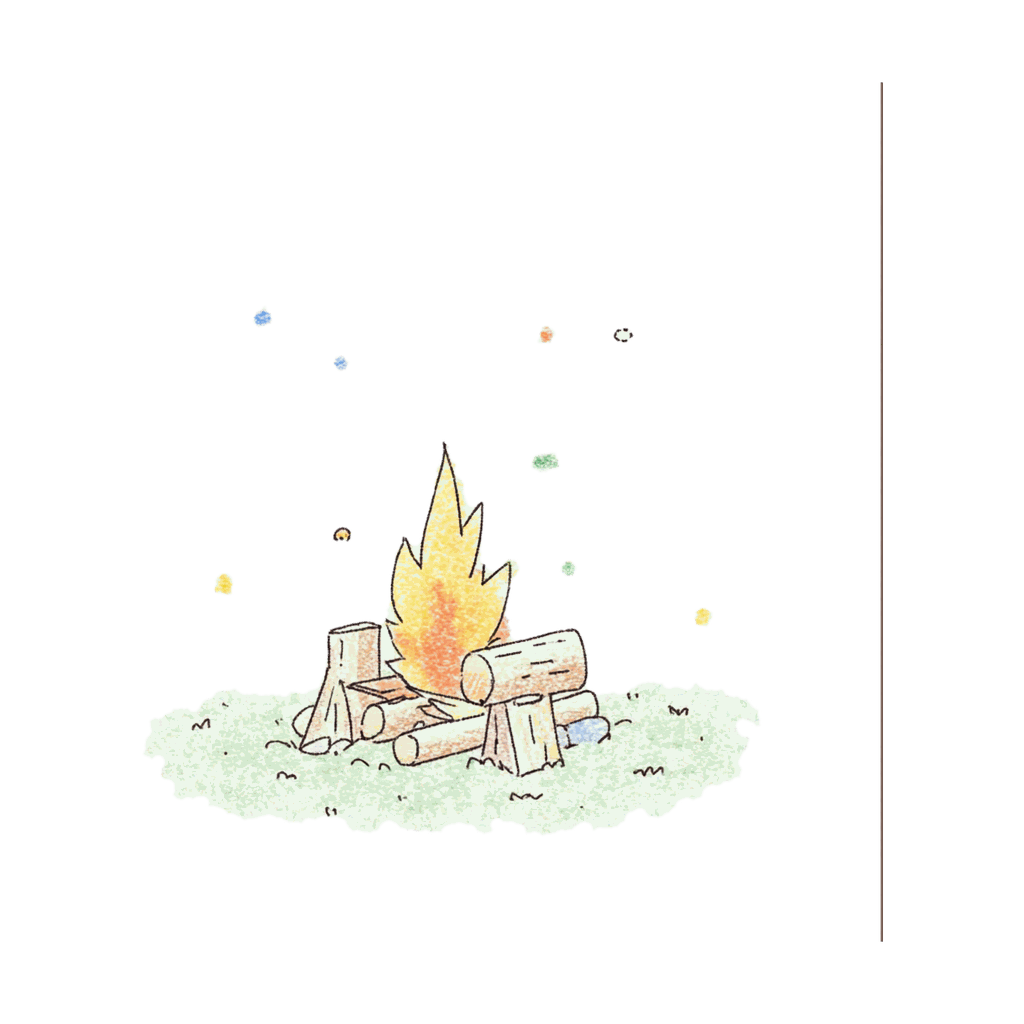
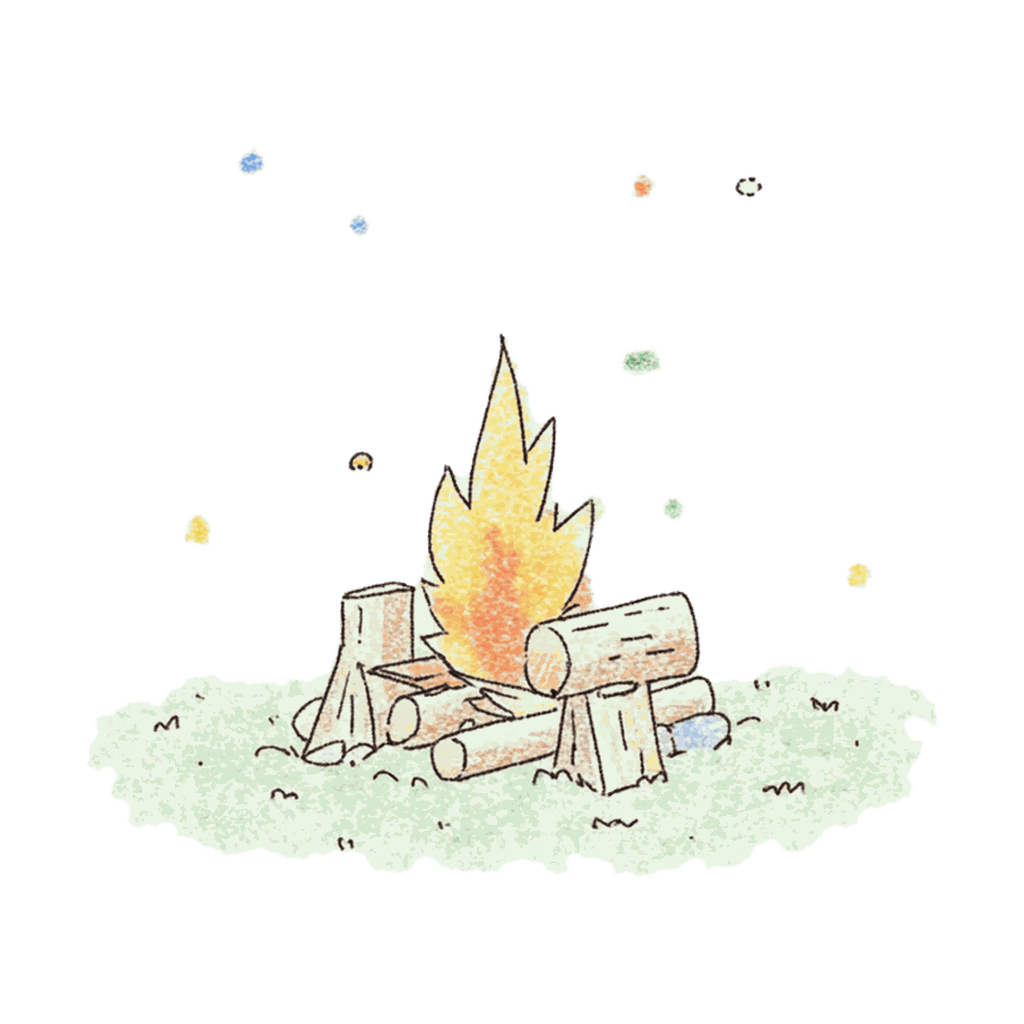
Stop baking the raw image's frame into the illustrations (#30)
* Peel a dark hairline frame off raw art before keying

`paper_mask` seeds the flood fill from the outermost ring of pixels, so a
raw image with a dark 1px frame yields no seed at all and nothing is keyed
out -- not a weak cut, a complete no-op. `live` shipped that way: the paper
sheet stayed fully opaque behind the illustration.

- `frame_depth` counts the outer rings that hold no paper pixel, and
  `key_out` crops them away (up to 8px) before keying. It reports 0 for the
  other 47 raws, so their output is untouched.
- `cutout.py` warns when the subject covers more than 65% of the output.
  With an 8% margin on each side the ceiling is 70.6%, so only a leftover
  paper rectangle can reach it. Background left behind was the one failure
  mode with no warning at all.
- Re-baked `live.png` from the original raw: opaque 70.2% -> 8.1%, with no
  opaque white pixels left. Checked on all three theme backgrounds.

* Redraw big and fire by hand, and drop a baked-in frame line

`fire.png` shipped with a 4px by 860px straight line at x=879 -- a leftover
of the raw image's frame, baked in by #25. The lines in both illustrations
were retouched by hand outside the pipeline, which removed most of it.

- Dropped the 51px of that line that survived the retouch, along with the
  nine 1px specks trailing below it. They sit in their own connected
  components, well clear of the drawing, so nothing hand-drawn is touched.
[…]

diff --git a/scripts/illustration-cutout/keying.py b/scripts/illustration-cutout/keying.py
@@ -9,7 +9,9 @@ alpha 0、alpha matting を切っても 15)。
 内側の白は定義上ぜったいに背景にならない。おまけにモデルのダウンロードが要らず、
 完全に決定論的で、1枚あたり数十msで終わる。
 
-**この方式が前提にすること**: 被写体が紙より暗い輪郭線で閉じていること。線が途切れて
+**この方式が前提にすること**: (1) 画像の外周が紙であること。最外周に暗い額縁が
+あるとフラッドフィルの種が取れず1画素も抜けないので、先に剥がす(`frame_depth`)。
+(2) 被写体が紙より暗い輪郭線で閉じていること。線が途切れて
 いると、そこから紙の白が内側へ流れ込む(`MAX_HOLE_RATIO` で小さい流れ込みは埋め戻すが、
 大きく破れていると救えない)。
 
@@ -30,6 +32,10 @@ from scipy.ndimage import binary_closing, binary_erosion, generate_binary_struct
 WHITE_MARGIN = 5
 # 測った紙の値がここから外れたら生画像がおかしい。安全側に丸める
 WHITE_TOL_RANGE = (200, 253)
+# 生画像の最外周に、紙より暗い数pxの額縁が付いていることがある(書き出しや加工の副産物)。
+# 額縁があると「外周と地続きの白」の種が1つも取れず、紙が丸ごと残る。この厚みまでは
+# 剥がしてから抜く。仕上げで 8% のマージンを取り直すので、絵そのものは欠けない
+FRAME_MAX_DEPTH = 8
 # 淡い色面(薄い水色の空、水彩の草地)には白判定に届く粒が散る。背景がこの半径より
 # 細く入り込んだ筋は埋める。広い紙の余白は残るので、腕と胴の隙間までは埋まらない
 CLOSE_RADIUS = 6
@@ -78,6 +84,37 @@ def paper_mask(rgb: np.ndarray, tol: int | None = None) -> np.ndarray:
     if outer.size == 0:
         return np.zeros(white.shape, dtype=bool)
     return np.isin(labels, outer)
+
+
+def frame_depth(rgb: np.ndarray, tol: int | None = None, max_depth: int = FRAME_MAX_DEPTH) -> int:
+    """最外周に張り付いた暗い額縁の厚みを測る。
+
+    この方式は「画像の外周は紙」を前提にしている(モジュール冒頭)。前提が崩れると
+    `paper_mask` は空マスクを返し、抜きが甘いのではなく **1画素も抜けない**。
+    2026-09-06 実測: `live` の生画像は最外周1pxだけが暗く(min チャンネル中央値 21、
+    3px 内側は 249)、紙が丸ごと残ったまま焼き込まれていた。
+
+    白が1画素も無いリングはフラッドフィルの種になり得ないので、外から順に数えて剥がす。
+    紙が外周に届いている普通の生画像では 0 を返して何もしない。
+    """
+    if tol is None:
+        tol = white_tol(rgb)
+    v = rgb.min(axis=2)
+    h, w = v.shape
+    depth = 0
+    # `2 * (depth + 1)` で見るのは、次に剥がした結果が空配列にならないことを確かめるため。
+    # `2 * depth + 1` だと偶数サイズの画像でちょうど1周ぶん行き過ぎ、クロップが空になる
+    while depth < max_depth and 2 * (depth + 1) < min(h, w):
+        rings = (
+            v[depth, depth : w - depth],
+            v[h - 1 - depth, depth : w - depth],
+            v[depth : h - depth, depth],
+            v[depth : h - depth, w - 1 - depth],
+        )
+        if any((ring >= tol).any() for ring in rings):
+            break
+        depth += 1
+    return depth
 
 
 def fill_leaks(subject: np.ndarray, max_hole: int) -> np.ndarray:
@@ -132,8 +169,17 @@ def key_out(
     edge_shrink: int = EDGE_SHRINK,
     feather: float = FEATHER,
 ) -> Image.Image:
-    """白背景を抜いた RGBA を返す。色は生画像のまま、alpha だけを作る。"""
+    """白背景を抜いた RGBA を返す。色は生画像のまま、alpha だけを作る。
+
+    額縁付きの生画像は先に額縁を落とすので、出力が入力より小さくなることがある
+    (`frame_depth`)。仕上げの `geometry.normalize` が alpha で trim して正方形に
+    詰め直すため、サイズが変わっても後段には影響しない。
+    """
     rgb = np.asarray(img.convert("RGB"))
+    depth = frame_depth(rgb, tol)
+    if depth:
+        rgb = rgb[depth:-depth, depth:-depth]
+        img = img.crop((depth, depth, img.width - depth, img.height - depth))
     subject = subject_mask(rgb, tol, close_radius, min_object, max_hole_ratio)
     if edge_shrink > 0:
         # border_value=1 で「画像の外は被写体」と見なし、端に接した被写体を削らない

diff --git a/scripts/illustration-cutout/test_keying.py b/scripts/illustration-cutout/test_keying.py
@@ -9,7 +9,7 @@
 from __future__ import annotations
 
 import numpy as np
-from keying import key_out, paper_mask, paper_level, subject_mask, white_tol
+from keying import frame_depth, key_out, paper_mask, paper_level, subject_mask, white_tol
 from PIL import Image, ImageDraw
 
 WHITE = (255, 255, 255)
@@ -158,3 +158,62 @@ def test_fill_does_not_touch_background_that_reaches_the_edge():
 
     subject = subject_mask(np.asarray(img))
     assert not subject[350, 200], "外へ通じている隙間が埋まっている"
+
+
+def test_a_hairline_dark_frame_does_not_block_the_flood():
+    """最外周1pxが暗いだけで紙が丸ごと残っていた(`live` の生画像)。"""
+    img = _paper()
+    draw = ImageDraw.Draw(img)
+    draw.rectangle((50, 50, 150, 150), outline=INK, width=3)
+    draw.rectangle((0, 0, img.width - 1, img.height - 1), outline=INK, width=1)
+
+    a = _alpha(img)
+    assert a[10, 10] == 0, "額縁に阻まれて外周の紙が残っている"
+    assert a[100, 100] == 255, "枠の内側の白まで抜けている"
+
+
+def test_frame_depth_counts_only_rings_without_any_paper():
+    img = _paper()
+    ImageDraw.Draw(img).rectangle(
+        (0, 0, img.width - 1, img.height - 1), outline=INK, width=3
+    )
+
+    assert frame_depth(np.asarray(img)) == 3
+
+
+def test_frame_depth_is_zero_when_the_paper_reaches_the_edge():
+    img = _paper()
+    ImageDraw.Draw(img).rectangle((50, 50, 150, 150), fill=INK)
+
+    assert frame_depth(np.asarray(img)) == 0
+
+
+def test_a_thick_frame_is_not_peeled_away_forever():
+    """厚い枠は額縁ではなく絵。剥がし続けて画像を食い潰さない。"""
+    img = _paper()
+    ImageDraw.Draw(img).rectangle(
+        (0, 0, img.width - 1, img.height - 1), outline=INK, width=40
+    )
+
+    assert frame_depth(np.asarray(img)) == 8
+
+
+def test_a_frame_on_only_three_sides_is_not_peeled():
+    """1辺でも紙が外周に届いていれば種は取れる。4辺すべてを見ていないと通らない。"""
+    img = _paper()
+    draw = ImageDraw.Draw(img)
+    w, h = img.size
+    draw.rectangle((0, 0, w - 1, 2), fill=INK)
+    draw.rectangle((0, 0, 2, h - 1), fill=INK)
+    draw.rectangle((0, h - 3, w - 1, h - 1), fill=INK)
+
+    assert frame_depth(np.asarray(img)) == 0, "右辺の紙を種にできていない"
+
+
+def test_a_tiny_all_dark_image_does_not_blow_up():
+    """剥がし切って空配列にならないこと。1024px では踏まないが、境界で落ちない保証がいる。"""
+    for size in (2, 3, 16, 17):
+        img = _paper(size=size, fill=INK)
+        depth = frame_depth(np.asarray(img))
+        assert size - 2 * depth >= 1, f"size={size} で剥がし切ってクロップが空になる"
+        _alpha(img)  # 例外を出さずに最後まで通る

diff --git a/scripts/illustration-cutout/cutout.py b/scripts/illustration-cutout/cutout.py
@@ -33,6 +33,11 @@ MARGIN_RATIO = 0.08
 TRIM_ALPHA_THRESHOLD = 8
 # 被写体がこの割合を切ったら、抜きすぎ(ほぼ空のフレーム)を疑って警告する。
 MIN_SUBJECT_RATIO = 0.005
+# 逆に、被写体がこの割合を超えたら「紙が残っている」を疑って警告する。**正規化後**に測る。
+# `pad_to_square` が四辺へ 8% の余白を足すので、絵が枠いっぱいでも上限は 0.84^2 = 0.706。
+# 正規化前だと上限が 1.0 になり、正常な絵(実測の最大は `small` の 0.599)との差が詰まって
+# 誤検知しやすい。正規化後なら正常系の最大は 0.502(`time`)で、この閾値が間に入る
+MAX_SUBJECT_RATIO = 0.65
 # Midjourney からの持ち込みでありうる拡張子。先に見つかったものを使う
 RAW_SUFFIXES = (".png", ".jpg", ".jpeg", ".webp")
 
@@ -70,7 +75,7 @@ def save_png(img: Image.Image, dest: Path) -> int:
 
 
 def subject_ratio(img: Image.Image) -> float:
-    """不透明ピクセルの割合。抜きすぎの検知だけに使う。"""
+    """不透明ピクセルの割合。抜きすぎ・抜けなさすぎの検知だけに使う。"""
     return float((np.asarray(img.getchannel("A")) >= 128).mean())
 
 
@@ -124,12 +129,17 @@ def main() -> int:
 
     done: list[tuple[Kanji, str, str]] = []
     thin: list[str] = []
+    solid: list[str] = []
     for kanji, raw in found:
         dest = args.out_root / f"{kanji.key}.png"
         cut = cut_out(raw)
+        norm = normalize(cut)
+        # 抜きすぎは正規化前に見る。ほぼ空のフレームは正規化で拡大されて比率が戻るため
         if subject_ratio(cut) < MIN_SUBJECT_RATIO:
             thin.append(kanji.key)
-        kb = save_png(normalize(cut), dest) / 1024
+        elif subject_ratio(norm) > MAX_SUBJECT_RATIO:
+            solid.append(kanji.key)
+        kb = save_png(norm, dest) / 1024
         done.append((kanji, raw.name, f"{kb:.0f}KB"))
 
     report(done, todo, args.out_root)
@@ -137,6 +147,13 @@ def main() -> int:
         print(
             f"\n!! ほぼ全部抜けた: {', '.join(thin)}"
             "\n   生画像の背景が白でないか、被写体の輪郭が閉じていない可能性がある",
+            file=sys.stderr,
+        )
+    if solid:
+        print(
+            f"\n!! 紙が残っているかも: {', '.join(solid)}"
+            "\n   生画像の外周が紙になっているか確認する(額縁は自動で剥がすが、"
+            "厚い枠や白でない背景は剥がせない)",
             file=sys.stderr,
         )
     return 0

diff --git a/scripts/illustration-cutout/README.md b/scripts/illustration-cutout/README.md
@@ -26,7 +26,11 @@ rembg は「白い領域＝背景」と判定するので、**被写体の中の
 白判定のしきい値は画像ごとに外周から測る。生画像によって紙の明るさに
 240〜255 の幅があり、固定値だとどちらかの絵で必ず破綻するため。
 
-**前提**: 被写体が紙より暗い輪郭線で閉じていること。線が途切れていると、そこから紙の白が
+**前提その1**: 画像の外周が紙であること。最外周の数pxに暗い額縁が付いていると、
+フラッドフィルの種が1つも取れず **1画素も抜けない**(抜きが甘いのではなく素通りする)。
+額縁は `frame_depth` が自動で剥がすが、剥がすのは 8px まで。
+
+**前提その2**: 被写体が紙より暗い輪郭線で閉じていること。線が途切れていると、そこから紙の白が
 内側へ流れ込む。小さい流れ込みは埋め戻す(`MAX_HOLE_RATIO`。実際 `mountain` の地面右端に
 19×17px の穴が空いていた)が、大きく破れている絵は救えない。
 
@@ -72,7 +76,8 @@ uv sync --project scripts/illustration-cutout
      scripts/illustration-cutout/cutout.py
    ```
    `assets/temp/` にある字だけを処理して `assets/kanji/<key>.png` を出し、
-   **まだ生画像が無い字を章ごとに一覧**で出す。既存の出力は上書き(冪等)
+   **まだ生画像が無い字を章ごとに一覧**で出す。既存の出力は上書き(冪等)。
+   **下の「このツールで再生成できないアセット」を先に読むこと。**
 4. 生成後、`src/features/reading/kanji-illustration.tsx` の `ILLUSTRATIONS` に
    `key: require('@/assets/kanji/<key>.png')` を1行足すと画面に出る(このスクリプトの範囲外)
 
@@ -90,7 +95,7 @@ uv run --project scripts/illustration-cutout pytest scripts/illustration-cutout
 ```
 
 自動テストは `geometry.py` の純粋関数、`content.py` の `index.ts` 読み取り、
-`keying.py` の抜き(輪郭線の内側の白が残る・外周の白が抜ける・淡い色面の粒が埋まる・
+`keying.py` の抜き(輪郭線の内側の白が残る・外周の白が抜ける・最外周の額縁を剥がす・淡い色面の粒が埋まる・
 画像端に接した被写体が削れない・紙の明るさに追従する・線の途切れからの流れ込みを埋め戻す)、そして `normalize → save_png` を通した保存後の形
 (1024正方形・中心 ±2%・四辺マージン 6% 以上・再実行でバイト一致)。
 最終的な絵の善し悪しはシミュレータで3テーマ背景に載せて目視で判断する。
@@ -101,14 +106,33 @@ uv run --project scripts/illustration-cutout pytest scripts/illustration-cutout
 
 - **淡い色面が斑に抜ける**(草地や空に穴が空く) … `CLOSE_RADIUS` を上げる。
   ただし上げすぎると腕と胴の隙間のような**細い背景も埋まって白く残る**
-- **背景が広く残る** … 紙が白くない生画像。`WHITE_MARGIN` を上げると紙判定が緩む。
-  実行時に `!! ほぼ全部抜けた` ではなく背景が残るケースは自動検知していないので目視で
+- **背景が広く残る** … まず `!! 紙が残っているかも` が出ていないか見る(正規化後の
+  被写体が 0.65 を超えたら出る。正常な絵の実測は最大 0.502 なので、紙の矩形が丸ごと
+  残ったとき — 上限の 0.706 — にしか届かない)。
+  よくある原因は最外周の暗い額縁で、8px を超える厚みだと剥がせない —— 生画像側で
+  枠を落とす。額縁でなければ紙が白くない生画像なので `WHITE_MARGIN` を上げる。
+  部分的に残るケースは自動検知していないので目視で
 - **被写体の内側に穴が空く** … 輪郭線の途切れから紙が流れ込んでいる。`MAX_HOLE_RATIO` を
   上げると大きい流れ込みまで埋まるが、上げすぎると**意図した抜けも埋まる**
 - **背景に黒い点が散る** … 紙粒テクスチャの濃い粒。`MIN_OBJECT` を上げて捨てる。
   上げすぎると小さな描き込み(点、細かい飾り)も一緒に消えるので、テスト字で見比べる
 - **暗テーマで縁に白いハローが出る** … `EDGE_SHRINK` を上げる(1 → 2)
 - **輪郭線の内側にあるはずの白が抜ける** … 輪郭線が閉じていない。生画像側の問題
+
+## このツールで再生成できないアセット
+
+**`--only` を付けずに全走行すると、下の3枚が黙って壊れる。**
+`assets/kanji/` の正は生画像 + このツールという建前だが、次の3枚だけ例外になっている。
+
+| アセット | 理由 | 全走行すると |
+|---|---|---|
+| `big.png` | 開発者が線を Photopea で描き直した(2026-09-06)。生画像に反映されていない | 手描き前に戻る |
+| `fire.png` | 同上。加えて焼き込まれていた枠の直線を消してある | 直線が戻り、フレーミングも 2/3 スケールに戻る |
+| `heaven.png` | 生画像が手元に無い | 出力されない |
+
+**全部を焼き直したいときは `--only` で対象を絞るか、この3枚を退避してから走らせる。**
+手を動かさずには戻せない(git から戻すことはできる)。
+経緯は `docs/log/2026-09.md`。
 
 ## スコープ外
 

diff --git a/docs/log/2026-09.md b/docs/log/2026-09.md
@@ -542,3 +542,60 @@
 
 - 買 / 川 / 花 はフォーカス画面に `On` バッジが出るのに樹に青い枝が無い。コンテンツ側の回で見る
 - 4.6 ステップ3(樹への反映アニメーション)は未着手。`KanjiTreeView` は静的描画のまま
+
+## 2026-09-06 生画像の額縁が抜きを素通りさせていたのを直した
+
+- 主導: 🤝 協働
+- 関連: `84656f6`..`e7af575` / PR #30 / plans/cutout-white-flood.md(前回の抜き直し)
+
+**人がやったこと**
+
+- `live` の白背景が残っていることの発見と報告。**シミュレータではなく PNG の見た目で気づいた**
+- 直し方の選択。「生画像を差し替えて焼き直すだけ」ではなく **ツール側を直す**方を選んだ
+  (次に額縁付きの生画像が来ても黙って失敗しないように)
+- `big` / `fire` の線を **Photopea** で手で描き直した。パイプラインの外での作業で、
+  生画像には反映されていない
+- `fire` に残った線の消し残しを、手作業ではなく機械的に落とす判断
+- `name` / `hear` の白抜けを**このブランチでは直さず**チェックリストに送る判断
+
+**AIに任せたこと**
+
+- 原因の特定(`paper_mask` が最外周1pxからしか種を取らない → 額縁があると空マスク)
+- `frame_depth` の実装、`MAX_SUBJECT_RATIO` の警告、テスト6本
+- 48字を暗背景に並べての全数目視と、細長い異物の機械的な検出
+- reviewer の指摘4点の反映
+
+**やり直した / 詰まったこと**
+
+- **AIが `big` / `fire` の未コミットの手描き修正を上書きして消した。** 冪等性を確かめるつもりで
+  `cutout.py --only big fire` を流した。**この2枚がパイプラインで再生成できないことが
+  どこにも書かれていなかった**のが原因。人が手で置き直して復旧。再発防止として
+  `README.md` に「このツールで再生成できないアセット」の節を足した(`heaven` も該当)
+- **最初に見た `assets/temp/live.png` が生画像ではなかった。** 抜き済みの絵を黒地に焼いた
+  ものに差し替わっていて、そこから焼き直すと紙＋黒枠になる。本物は `assets/temp/bk/live.png`
+- **異物の検出条件が甘くて `fire` の消し残しを取りこぼした。** 最初は「長さ200px以上」で
+  洗ったので、51px の消し残しがすり抜けた。「長辺20px以上 + 長辺/短辺4倍以上」に締めたら
+  `name` の白い破線状の縦線も出てきた
+- **前回エントリの「充填率85%超で警告」をそのままは採用しなかった。** 比率を**正規化後**に
+  測ると上限が 0.706 に決まるので、閾値は 0.65 にした。正規化**前**だと上限が 1.0 で、
+  正常な絵の最大(0.599)との差が 0.05 しか無く誤検知する。この取り違えはレビューで出た
+- **`pnpm run check` が生成物依存で落ちた。** `.expo/types/router.d.ts` が gitignore 済みなのに
+  typecheck がそれに依存していて、#29 で足した `/quiz` を知らないまま古くなっていた
+
+**回収した借り**(前回エントリより)
+
+- ✅ **`cutout.py` に額縁検知の警告が無い** → `MAX_SUBJECT_RATIO` で警告するようにした
+- ✅ **暗色背景での確認をしていない** → 48字すべてを暗背景に載せて目視した。
+  `plans/illustration-cutout.md` の「暗色背景の上で白い矩形が見えない」は `live` で達成
+
+**未回収の借り**
+
+- **`name` / `hear` の服の白が抜けている。** 暗いテーマで服が消える。輪郭線の途切れから
+  紙が外へ通じているとみられ、`CLOSE_RADIUS` を上げると他の46字を崩しかねない。
+  `release-checklist.md` に記載済み
+- **`name` に生画像の枠の焼き込み(白い破線状の縦線、x=141..152)が残っている。**
+  `fire` から落としたのと同じやり方で落とせる
+- **`check.sh` が gitignore 済みの生成物に依存している。** クリーンチェックアウトでは必ず落ちる
+- **実機/シミュレータでの目視をしていない。** 確認は PNG を3テーマ背景に合成して alpha を
+  測るところまで。漢字フォーカス画面の実表示サイズでは見ていない
+- **`big` / `fire` の手描き修正が生画像に反映されていない。** パイプラインの外にあるまま

diff --git a/docs/release-checklist.md b/docs/release-checklist.md
@@ -38,6 +38,9 @@
       — `src/features/reading/kanji-illustration.tsx` の `ILLUSTRATIONS` が空で、
       漢字フォーカス画面は枠のまま。**開発者しか進められない直列作業で、リードタイムが最長**。
       まず 山/空/歩/**思** の4字で画風を確定させる(抽象語の「思」で破綻しないことが合格ライン)
+- [ ] **`name` / `hear` の服の白が抜けているのを直す**
+      — 暗いテーマで服が消え、輪郭線とシワだけが浮く。
+      `name` にはさらに、生画像の枠が焼き込まれた白い破線状の縦線(x=141..152)が残っている
 - [ ] **推測クイズ「読めるかな?」**(5.1-6 / 4.4)。**面白さの主軸**
 - [x] **漢字の樹**(5.1-7 / 4.5)→ 完了(`docs/plans/kanji-tree.md`)
 - [ ] **簡易オンボーディング**(5.1-10)。3画面程度
